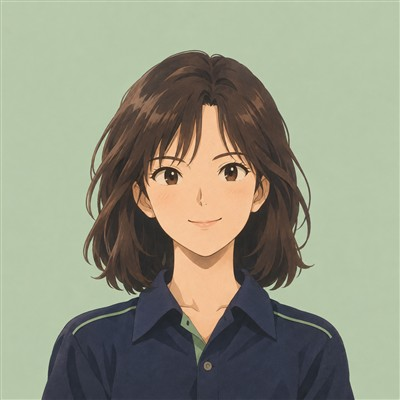
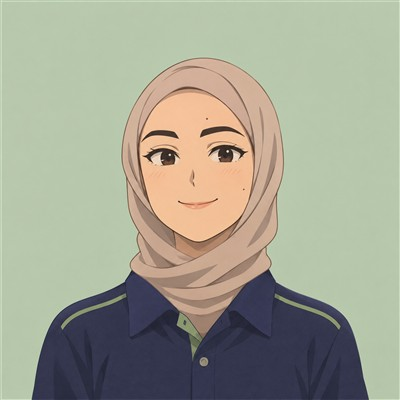
Update Azra portrait and refresh member image URL

diff --git a/uyelerimiz/index.html b/uyelerimiz/index.html
@@ -315,7 +315,7 @@
 
         <div class="bg-white p-6 rounded-2xl border border-surface-container-high/60 shadow-sm hover:shadow-xl hover:border-brand-green/30 transition-all duration-300 card-hover flex flex-col items-center text-center justify-between group">
           <div class="w-full flex flex-col items-center py-2">
-            <img src="/assets/anime/azra.jpg" alt="Temsili anime portresi" width="160" height="160" loading="lazy" class="w-32 h-32 rounded-full border-4 border-brand-green/30 bg-brand-green/5 object-cover mb-5 shadow-sm" />
+            <img src="/assets/anime/azra-v2.jpg" alt="Temsili anime portresi" width="160" height="160" loading="lazy" class="w-32 h-32 rounded-full border-4 border-brand-green/30 bg-brand-green/5 object-cover mb-5 shadow-sm" />
             <h3 class="font-akhand-bold text-lg text-brand-navy group-hover:text-brand-green transition-colors tracking-tight mb-4">
               Azra Genç
             </h3>
